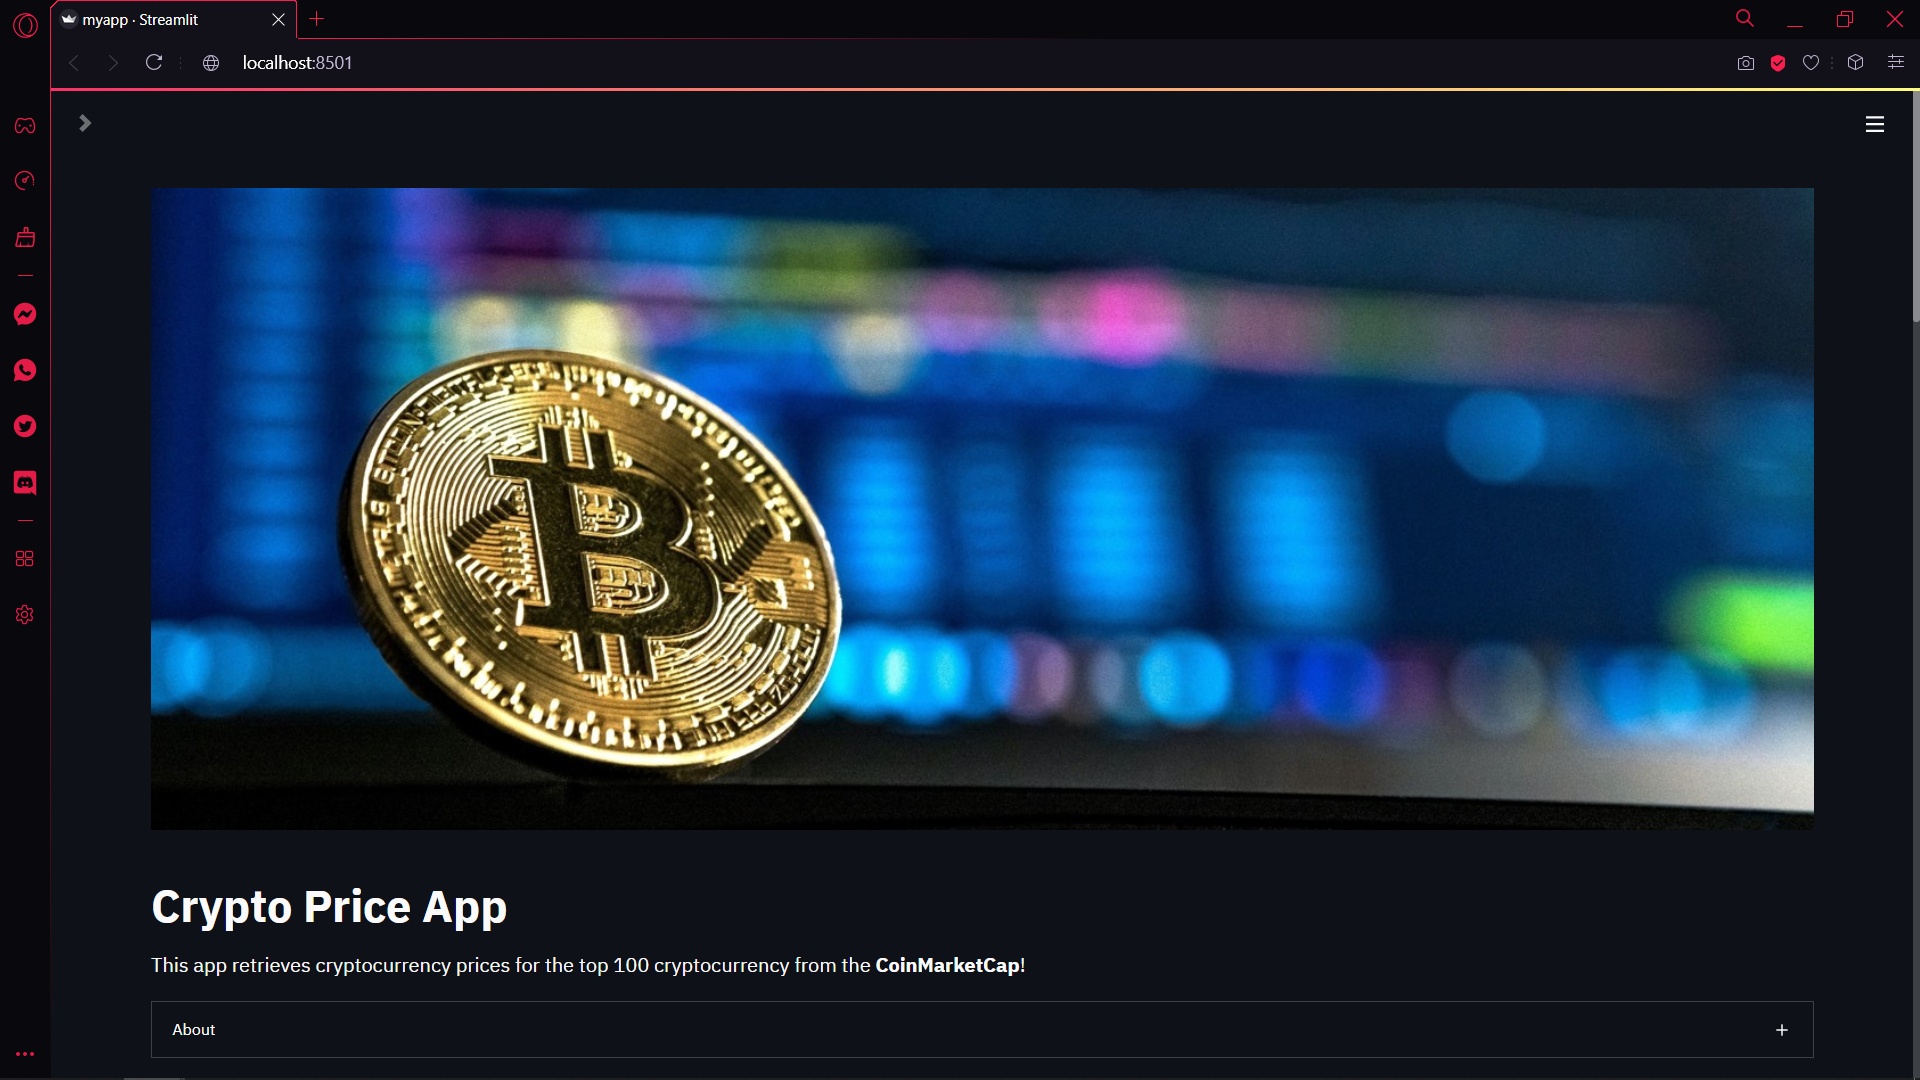
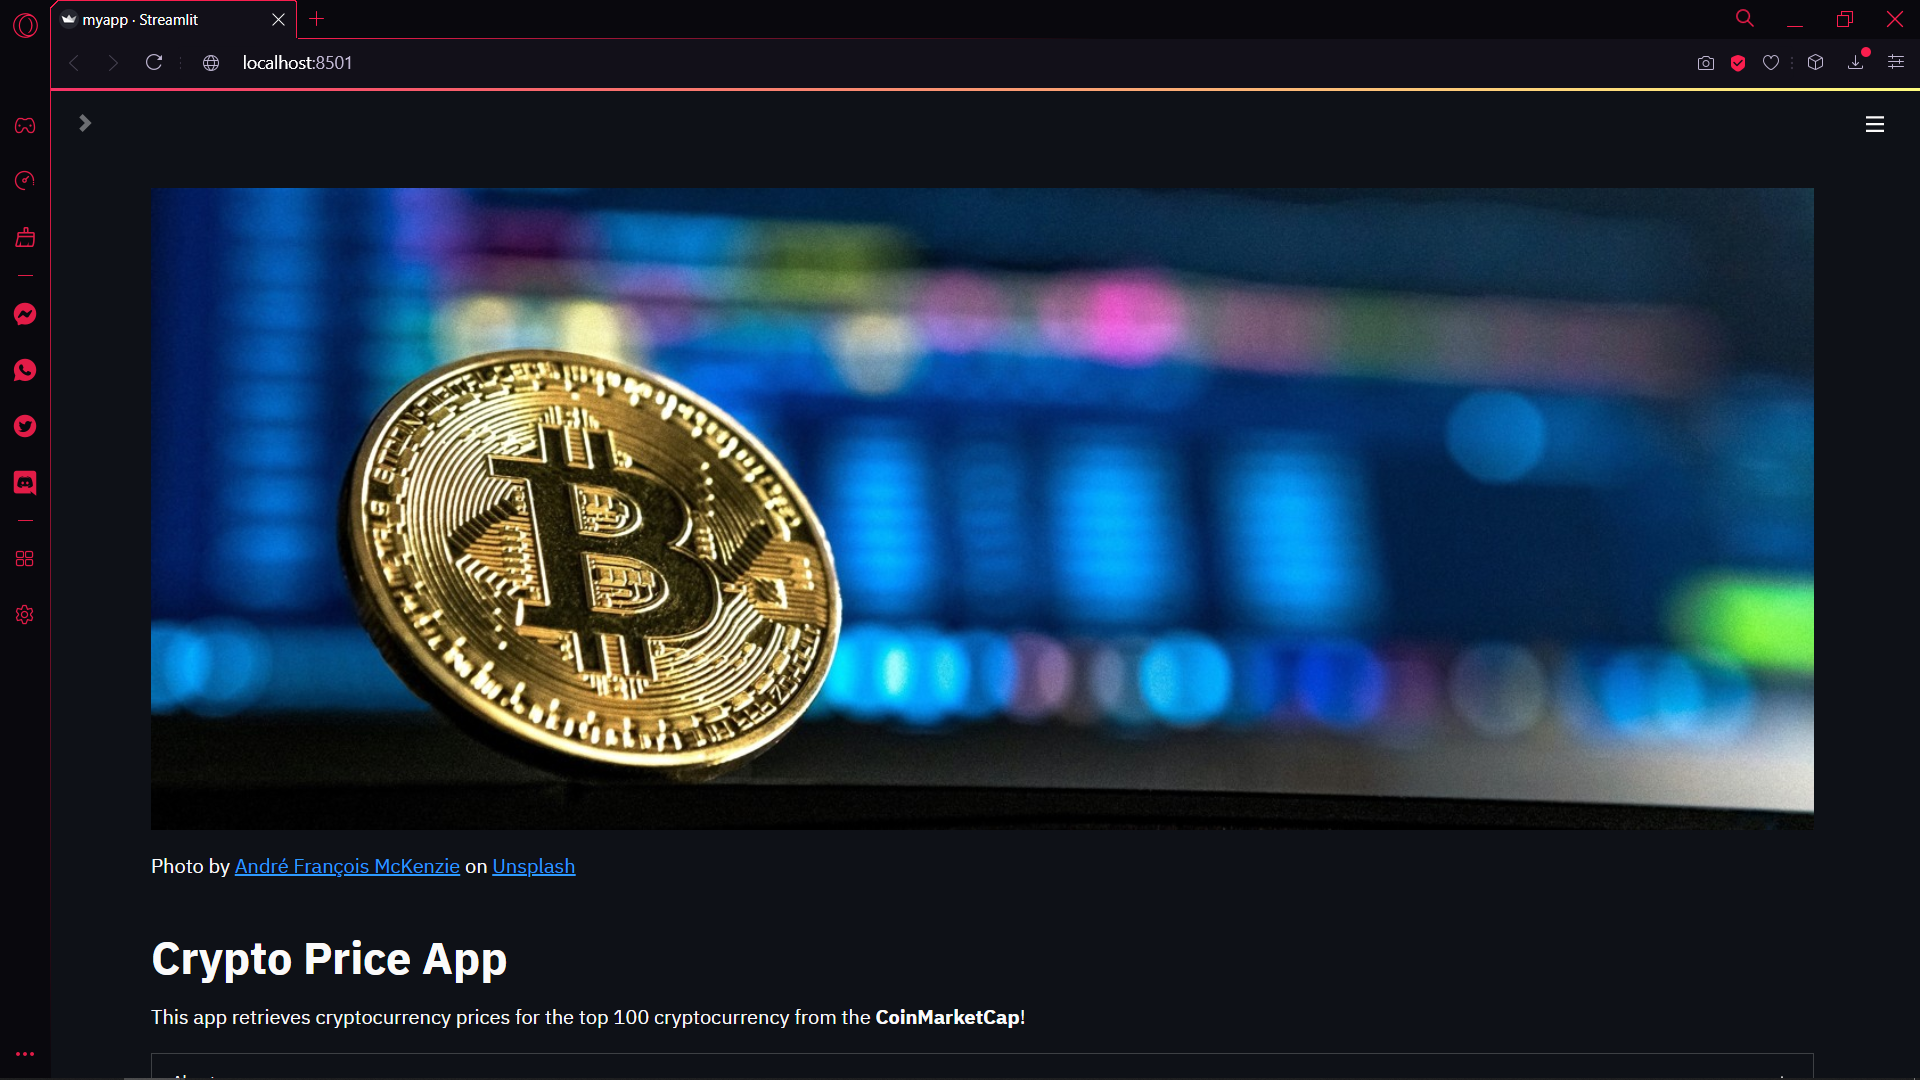
Cited image sources

Changed region(s): [[0.0625, 0.7944, 0.5312, 0.9778], [0.9688, 0.0917, 1.0, 1.0], [0.9062, 0.0306, 0.9375, 0.0611]]

diff --git a/05_eda_cryptocurrency/myapp.py b/05_eda_cryptocurrency/myapp.py
@@ -20,7 +20,10 @@ def main():
     # Title
     image = Image.open('crypto.jpg')
     st.image(image)
-
+    
+    st.markdown("""
+    Photo by [André François McKenzie](https://unsplash.com/@silverhousehd?utm_source=unsplash&utm_medium=referral&utm_content=creditCopyText) on [Unsplash](https://unsplash.com/s/photos/cryptocurrency?utm_source=unsplash&utm_medium=referral&utm_content=creditCopyText")
+    """)
     st.title('Crypto Price App')
     st.markdown("""
     This app retrieves cryptocurrency prices for the top 100 cryptocurrency from the **CoinMarketCap**!

diff --git a/06_iris_classification/myapp.py b/06_iris_classification/myapp.py
@@ -6,9 +6,12 @@ import pickle
 
 
 def main():
+
+    st.set_page_config(layout="wide")
+    
     st.write("""
     # Simple Iris Flower Prediction App
-    This app predicts the **Iris flower** type!
+    This app predicts the **Iris flower** type! Image by [Hulkido](https://github.com/Hulkido/Fisheriris_MATLAB)
     """)
 
     image = Image.open('iris_type.jpeg')

diff --git a/02_simple_bioinformatics_dna_count/myapp.py b/02_simple_bioinformatics_dna_count/myapp.py
@@ -5,9 +5,12 @@ from PIL import Image
 
 
 image = Image.open('dna.jpg')
-st.image(image, use_column_width=True)
+st.image(image)
 
 st.write('''
+Photo by [PublicDomainPictures](https://pixabay.com/users/publicdomainpictures-14/) on [Pixabay](https://pixabay.com)
+  
+
 # DNA Nucleotide Count Web App
 
 This app counts the nucleotide composition of query DNA!

diff --git a/07_penguin_classification/myapp.py b/07_penguin_classification/myapp.py
@@ -14,6 +14,7 @@ def main():
 
     image = Image.open('palmerpenguins.png')
     st.image(image)
+    st.write("""Artwork by @allison_horst.""")
 
     st.sidebar.header('User Input Features')
 
